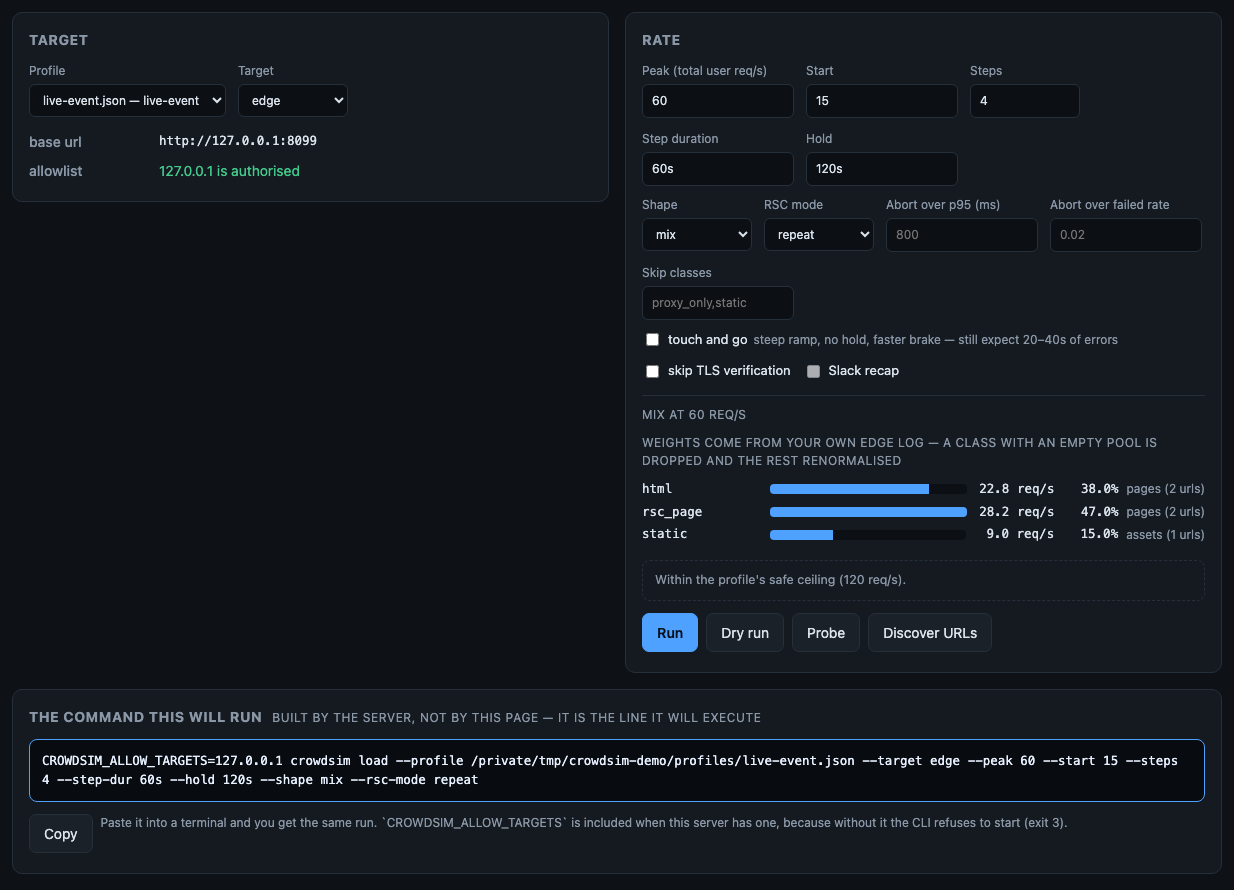
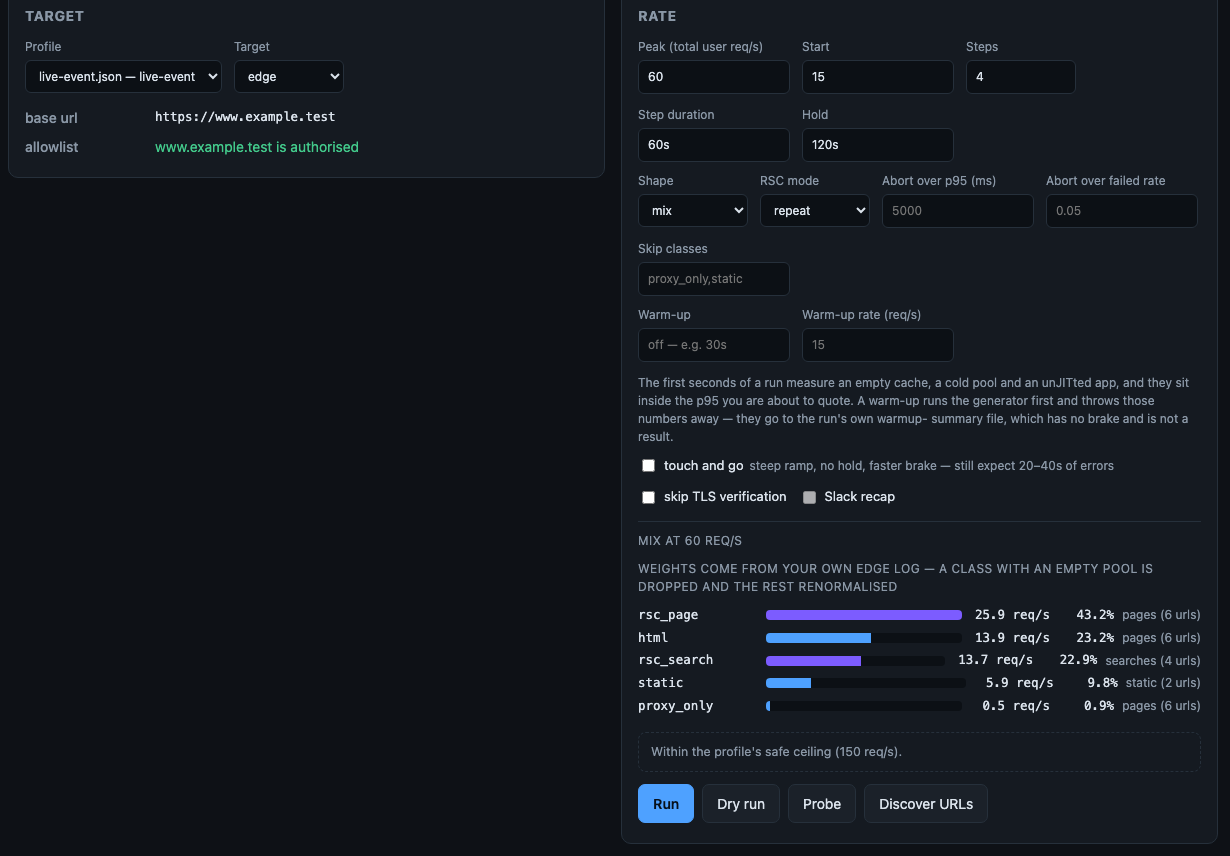
fix(docs): the screenshots are the GUI that ships, and lib/ is what lib/ holds
The two GUI screenshots predated the features they were meant to show:
gui-run-form.png was taken before --warmup reached the form and
gui-result.png before the report buttons did. Retaken against a real server
with a real archive, cropped to the same framing as the rest.

Taking them found a UI bug the diff did not: the note under the report
buttons was written as markdown inside JSX, so it printed its own backticks
on screen. It now says HTML and markdown.

Also: the run form's field list in docs/gui.md names the warm-up, the panel
list says where the report buttons are, and docs/architecture.md lists what
lib/ actually holds instead of the one module — under a filename that has not
existed for releases.

diff --git a/gui/ui/src/components/SummaryCard.jsx b/gui/ui/src/components/SummaryCard.jsx
@@ -63,9 +63,9 @@ export default function SummaryCard({ summary, compare }) {
       </h2>
       <p className="note">
         Either report carries the caveats attached to the numbers — what this run is worth, not only what it
-        measured. That is the part that does not survive being retyped into a ticket. The `.html` one draws
-        the ramp as a curve with the knee on it and fetches nothing, so it still renders offline in a year;
-        the `.md` one is the one to paste.
+        measured. That is the part that does not survive being retyped into a ticket. The HTML one draws the
+        ramp as a curve with the knee on it and fetches nothing, so it still renders offline in a year; the
+        markdown one is the one to paste.
       </p>
       {reportError ? <div className="banner bad">Could not write the report: {reportError}</div> : null}
 

diff --git a/docs/docker.md b/docs/docker.md
@@ -60,7 +60,7 @@ queue needs time to build.
 ### Pull a released tag
 
 ```bash
-docker pull ghcr.io/hiway-media/crowdsim:1.19.0     # exact version — use this
+docker pull ghcr.io/hiway-media/crowdsim:1.19.1     # exact version — use this
 docker pull ghcr.io/hiway-media/crowdsim:1.19       # latest patch of 1.2
 docker pull ghcr.io/hiway-media/crowdsim:latest    # last release
 ```
@@ -134,7 +134,7 @@ docker run --rm -p 127.0.0.1:8787:8787 \
   -e CROWDSIM_ALLOW_TARGETS='www.example.test' \
   -v "$PWD/profiles:/profiles" \
   -v "$PWD/out:/out" \
-  ghcr.io/hiway-media/crowdsim:1.19.0 crowdsim serve
+  ghcr.io/hiway-media/crowdsim:1.19.1 crowdsim serve
 ```
 
 Or `make image-run`, which does exactly this against `crowdsim:dev` and prints a freshly generated token.
@@ -181,7 +181,7 @@ docker run --rm --network host \
   -e CROWDSIM_ALLOW_TARGETS='www.example.test' \
   -v "$PWD/my-profile.json:/profile.json:ro" \
   -v "$PWD/out:/out" \
-  ghcr.io/hiway-media/crowdsim:1.19.0 \
+  ghcr.io/hiway-media/crowdsim:1.19.1 \
   crowdsim load --profile /profile.json --target edge --peak 60
 ```
 
@@ -209,7 +209,7 @@ by that same container, so the same caveat applies to the runs, not to the page.
 ```bash
 docker run --rm --network host -e CROWDSIM_ALLOW_TARGETS='www.example.test' \
   -v "$PWD/my-profile.json:/profile.json:ro" -v "$PWD/out:/out" \
-  ghcr.io/hiway-media/crowdsim:1.19.0 crowdsim probe --profile /profile.json
+  ghcr.io/hiway-media/crowdsim:1.19.1 crowdsim probe --profile /profile.json
 
 # same shape for: discover --limit 400 · load --dry-run · history · report <run-id> [--html] · init
 ```
@@ -226,12 +226,12 @@ command reads nothing — `❌ the log is empty: no lines to classify.`, exit 2 
 ```bash
 # a log on this host
 docker run --rm -v "$PWD/my-profile.json:/profile.json:ro" -v /var/log/nginx:/logs:ro \
-  ghcr.io/hiway-media/crowdsim:1.19.0 crowdsim weights /logs/access.log --profile /profile.json
+  ghcr.io/hiway-media/crowdsim:1.19.1 crowdsim weights /logs/access.log --profile /profile.json
 
 # a log that never lands on disk here
 ssh edge 'zcat /var/log/nginx/access.log.*.gz' \
   | docker run --rm -i -v "$PWD/my-profile.json:/profile.json:ro" \
-      ghcr.io/hiway-media/crowdsim:1.19.0 crowdsim weights - --profile /profile.json
+      ghcr.io/hiway-media/crowdsim:1.19.1 crowdsim weights - --profile /profile.json
 ```
 
 No `/out` mount is needed and none is used: this subcommand writes nothing, which is deliberate — an access

diff --git a/docs/gui.md b/docs/gui.md
@@ -65,7 +65,7 @@ CROWDSIM_ALLOW_TARGETS='www.example.test' crowdsim serve
 
 The page tells you which way it went, top right, and whether the chosen target passes:
 
-![The run form: profile, target, allowlist verdict, rate, and the mix a peak implies](assets/screens/gui-run-form.png)
+![The run form: profile, target, the allowlist verdict, the rate and the warm-up, and the mix a peak implies](assets/screens/gui-run-form.png)
 
 Read the two things that matter before anything else:
 
@@ -159,7 +159,7 @@ a second one.
 
 When it ends you get the verdict, in the order that keeps you honest:
 
-![The result: the verdict, the measured knee, the per-class table and the run's own files](assets/screens/gui-result.png)
+![The result: the two report buttons, the verdict, the measured knee, the per-class table and the comparable runs](assets/screens/gui-result.png)
 
 The blue banner is **the knee**: the highest rate this run measured the system surviving, and the rate at
 which it stopped — with the two caveats that never survive retyping attached to it, that a swept rate is not a
@@ -202,10 +202,13 @@ number that means nothing. The first field is `generator_ok`: if it is false, di
   belongs to the profile it came from) and disarms the safe-peak override.
 - **Target** — shows `base_url`, any `Host` override, the bypass, the classes it skips, and the allowlist
   verdict.
-- **Rate** — peak, start, steps, step duration, hold, shape, rsc mode, SLO overrides, skip list, and three
+- **Rate** — peak, start, steps, step duration, hold, shape, rsc mode, SLO overrides, skip list, the warm-up
+  (a duration, blank means off, and a rate that defaults to the ramp's own starting rate), and three
   switches: touch-and-go, skip TLS verification, Slack recap (greyed out unless a webhook is configured).
 - **Buttons** — Run · Dry run (composes everything, sends no traffic) · Probe · Discover URLs. Stop appears
   while a run is in flight.
+- **On the result** — Report (.md) to paste, and Report with charts (.html) to attach. Both spawn
+  `crowdsim report`; neither is rendered by the page.
 
 ### This machine
 

diff --git a/CHANGELOG.md b/CHANGELOG.md
@@ -4,6 +4,26 @@ All notable changes to crowdsim are documented here.
 The format follows [Keep a Changelog](https://keepachangelog.com/en/1.1.0/) and
 [Semantic Versioning](https://semver.org/spec/v2.0.0.html).
 
+## [1.19.1] — 2026-09-01
+
+Documentation catching up with two releases of its own product. The GUI screenshots still showed the page as
+it was before the warm-up fields and the report buttons existed, and the architecture page still described a
+`lib/` with one module in it.
+
+### Fixed
+- **The two GUI screenshots are the GUI that ships.** `gui-run-form.png` was taken before `--warmup` reached
+  the form and `gui-result.png` before the report buttons did, so the page in the documentation had neither.
+  Retaken against a real server with a real archive, and cropped to the same framing as the rest.
+- **The result card no longer prints its own backticks.** The note under the report buttons was written as
+  markdown and rendered as JSX, so it read `` `.html` `` on screen. It says HTML and markdown instead. Found
+  by looking at the screenshot rather than at the diff, which is what the screenshot is for.
+- **The run form's field list in `docs/gui.md` names the warm-up**, and the panel list says where the report
+  buttons are. A field that exists and is not in the reference is a field nobody knows to use.
+- **`docs/architecture.md` lists what `lib/` actually holds** — `validate.mjs`, `har.mjs`, `weights.mjs`,
+  `report-html.mjs`, each pure, unit-tested and reached through a thin `*-cli.mjs` — instead of the single
+  module it had when the page was written, under a filename (`validate.js`) that has not existed for
+  releases.
+
 ## [1.19.0] — 2026-09-01
 
 Every number this tool produces is a curve — rate against latency, per step — and the only place that curve

diff --git a/docs/architecture.md b/docs/architecture.md
@@ -33,6 +33,9 @@ Why crowdsim is built out of these pieces, and where each decision lives.
   gui/server (express) ── spawns ──▶ bin/crowdsim        gui/ui (react)
         └── reads out/ and profiles/, stores nothing of its own
         └── lib/validate.mjs ◀── also used by `crowdsim validate`, doctor and load (one rule set)
+
+  lib/ (node, optional)  validate.mjs · har.mjs · weights.mjs · report-html.mjs
+        └── each one pure, unit-tested, and reached through a thin *-cli.mjs the driver spawns
 ```
 
 ## Why a bash driver and a JS generator
@@ -141,7 +144,10 @@ for. See [Docker](docker.md).
 bin/crowdsim              the driver: gates, resolution, reporting  (also its own --help)
 k6/live-event.js          the generator: scenarios, requests, metrics
 k6/lib/                   pure logic, imported by the generator and by the tests
-lib/                      validate.js (the profile rules) + validate-cli.mjs, shared by CLI and GUI
+lib/                      the driver's node-side logic, each with a thin *-cli.mjs and unit tests:
+                          validate.mjs (the profile rules, shared by CLI and GUI), har.mjs (a browser
+                          recording → a journey), weights.mjs (an access log → the class mix),
+                          report-html.mjs (a summary → a page with charts)
 gui/server/lib/           args (flag composition), profiles, runner, history, app
 gui/ui/src/               React: RunPanel, ProfilePanel, HistoryPanel, MixBars, SummaryCard
 profiles/example.json     the only profile in this repo, documented inline

diff --git a/README.md b/README.md
@@ -86,20 +86,20 @@ guide — mounts, environment, permissions, exit codes, troubleshooting — is
 **[docs/docker.md](docs/docker.md)**; the pieces the compose file above is made of:
 
 ```bash
-docker pull ghcr.io/hiway-media/crowdsim:1.19.0        # or :1.19, or :latest
+docker pull ghcr.io/hiway-media/crowdsim:1.19.1        # or :1.19, or :latest
 
 # a run, on a host near the target
 docker run --rm --network host \
   -e CROWDSIM_ALLOW_TARGETS='www.example.test' \
   -v "$PWD/my-profile.json:/profile.json:ro" -v "$PWD/out:/out" \
-  ghcr.io/hiway-media/crowdsim:1.19.0 crowdsim load --profile /profile.json --target edge --peak 60
+  ghcr.io/hiway-media/crowdsim:1.19.1 crowdsim load --profile /profile.json --target edge --peak 60
 
 # the GUI, on your own machine
 docker run --rm -p 127.0.0.1:8787:8787 \
   -e CROWDSIM_GUI_BIND=0.0.0.0 -e CROWDSIM_GUI_TOKEN="$(openssl rand -hex 16)" \
   -e CROWDSIM_ALLOW_TARGETS='www.example.test' \
   -v "$PWD/profiles:/profiles" -v "$PWD/out:/out" \
-  ghcr.io/hiway-media/crowdsim:1.19.0 crowdsim serve
+  ghcr.io/hiway-media/crowdsim:1.19.1 crowdsim serve
 ```
 
 `make image` builds it locally as `crowdsim:dev`, `make image-smoke` asserts it is still the tool, and
